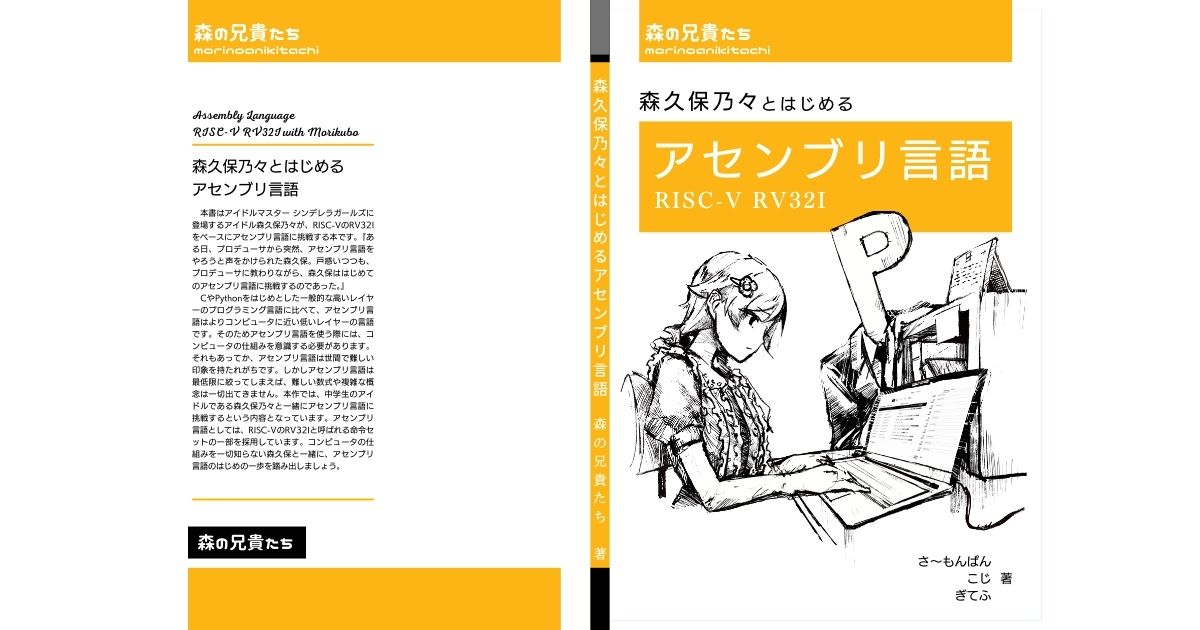
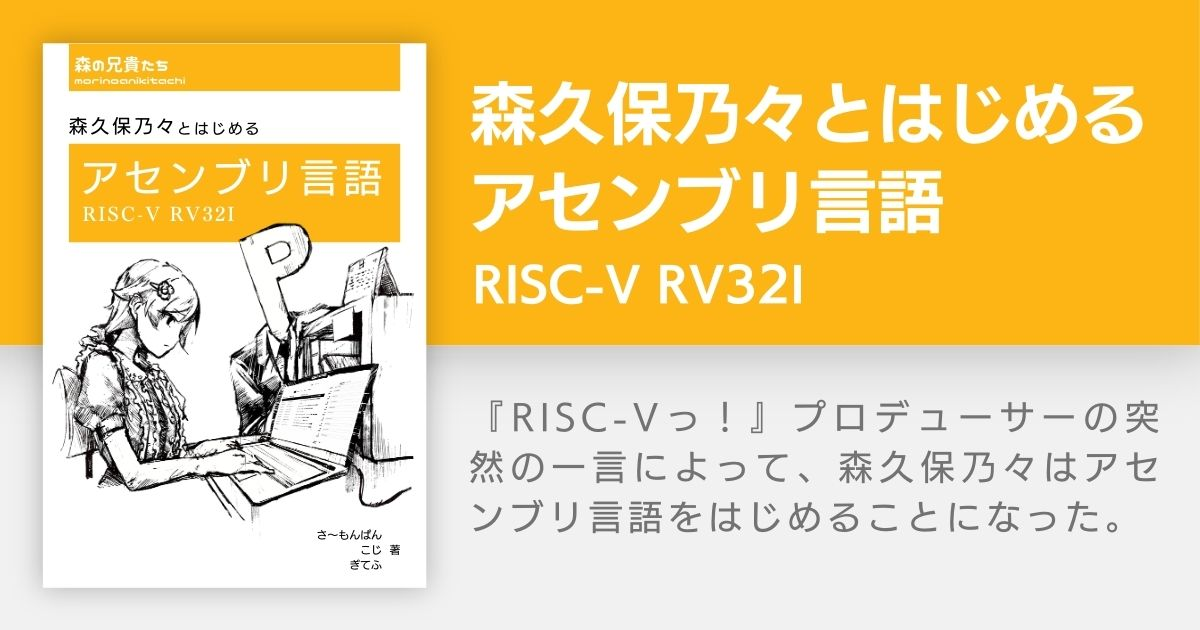
OGP更新を反映

diff --git a/docs/c99/main/index.html b/docs/c99/main/index.html
@@ -190,7 +190,7 @@
 第6章「地獄に落ちてもリスタートだァ！！！」<br>
 第7章「当たったら消えますけど&hellip;」<br>
 第8章「アンデス、初のゲーム完成！」<br>
-第9章「当たったら消えますけど&hellip;」<br>
+第9章「エピローグ」<br>
 付録A「作成したプログラム一覧」<br>
 あとがき/さいごに</p>
 </blockquote>

diff --git a/docs/index.html b/docs/index.html
@@ -1,7 +1,7 @@
 <!DOCTYPE html>
 <html lang="ja-jp">
 <head>
-	<meta name="generator" content="Hugo 0.139.0"><meta charset="utf-8">
+	<meta name="generator" content="Hugo 0.123.7"><meta charset="utf-8">
 <meta http-equiv="X-UA-Compatible" content="IE=edge">
 
 <title>森の兄貴たち</title>
